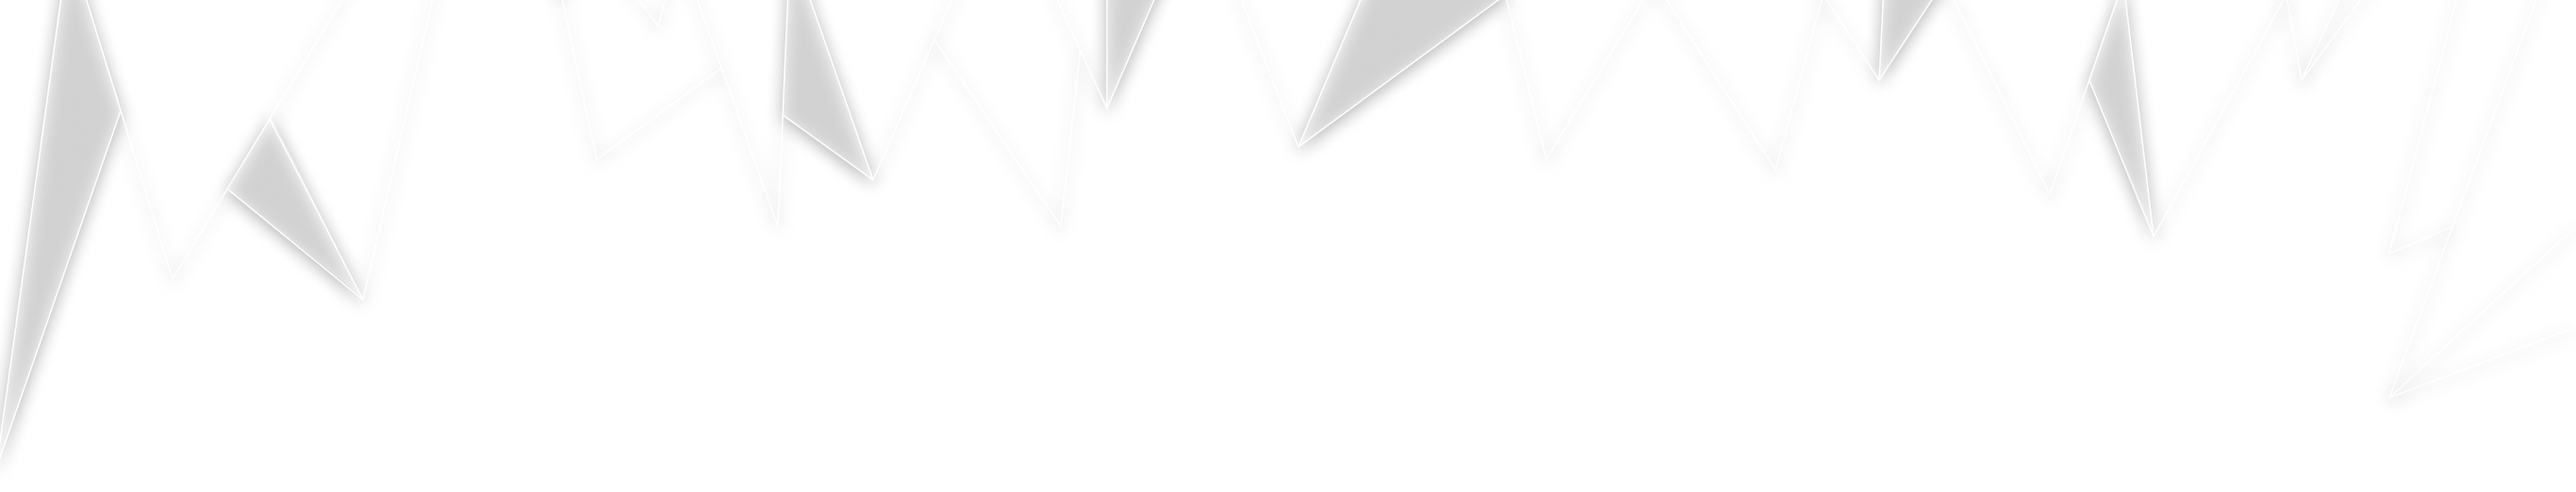
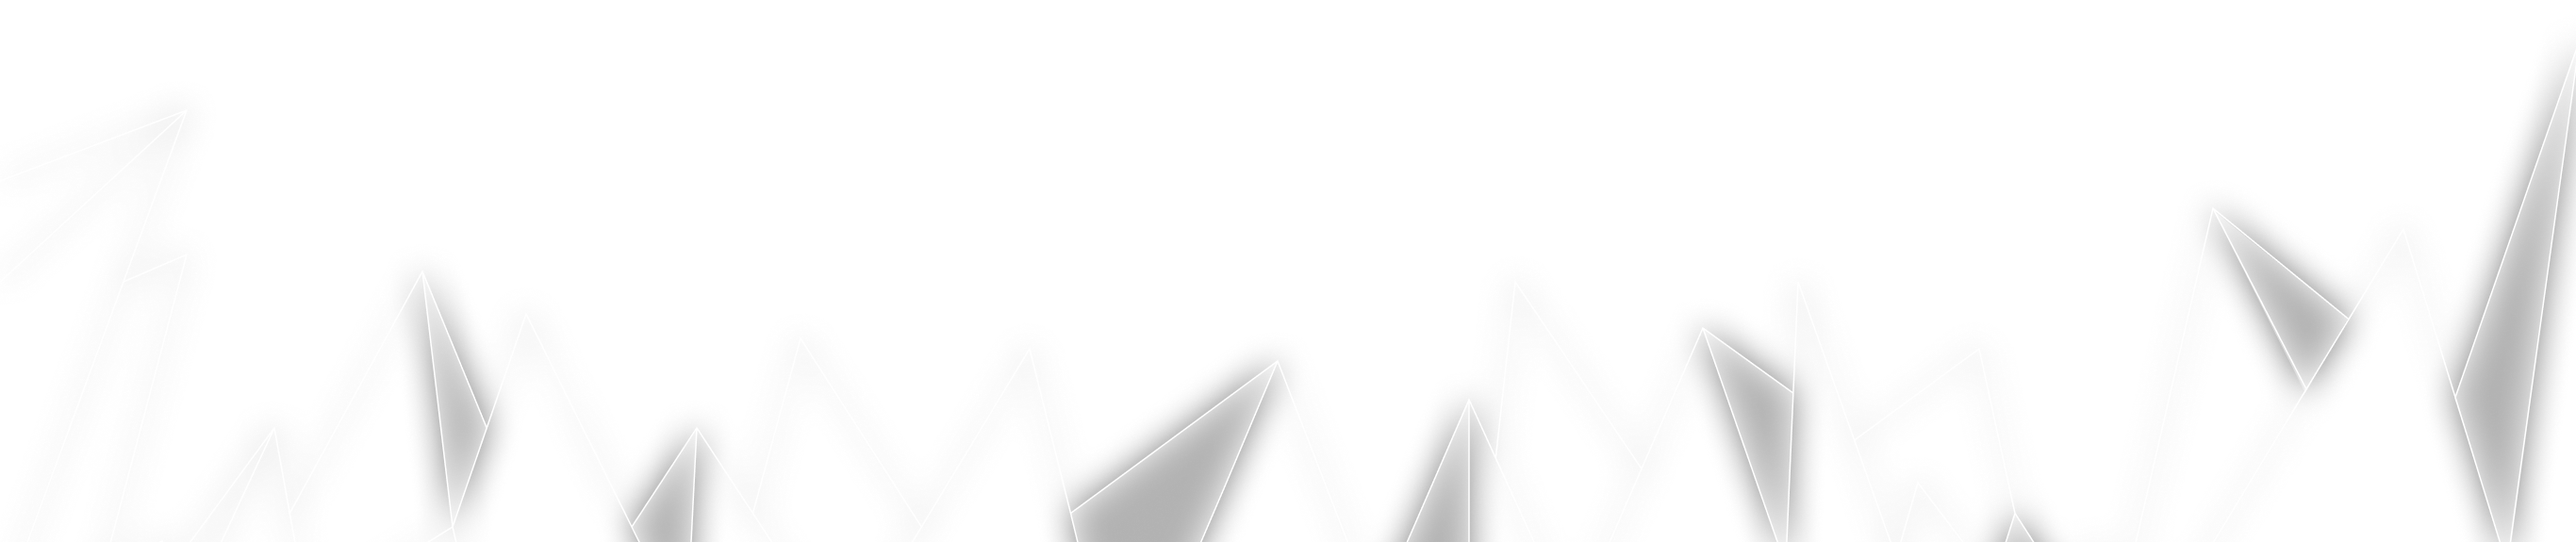
triangles

diff --git a/src/scss/styles.scss b/src/scss/styles.scss
@@ -1,7 +1,23 @@
 @import 'resetcss';
 
-div {
+.dégradé {
     background: linear-gradient(180deg, #C31432 -18.47%, #720F34 43.63%, #240B36 118.6%);
     width: auto;
     height: 789px;
+}
+
+.triangles_bas {
+    position: absolute;
+    width: auto;
+    height: 303px;
+    left: 0px;
+    top: 485px;
+}
+.triangles_haut {
+    position: absolute;
+    width: auto;
+    height: 303px;
+    left: 0px;
+    top: 0px;
+    transform: rotate(180deg);
 }

diff --git a/src/index.html b/src/index.html
@@ -8,7 +8,8 @@
   <link rel="stylesheet" href="scss/styles.scss">
 </head>
 <body>
-  <div>
-  </div>
+  <div class="dégradé"></div>
+  <img class="triangles_bas" src="../images/triangles.png" alt="élément_graphique1">
+  <img class="triangles_haut" src="../images/triangles.png" alt="élément_graphique1">
 </body>
 </html>
